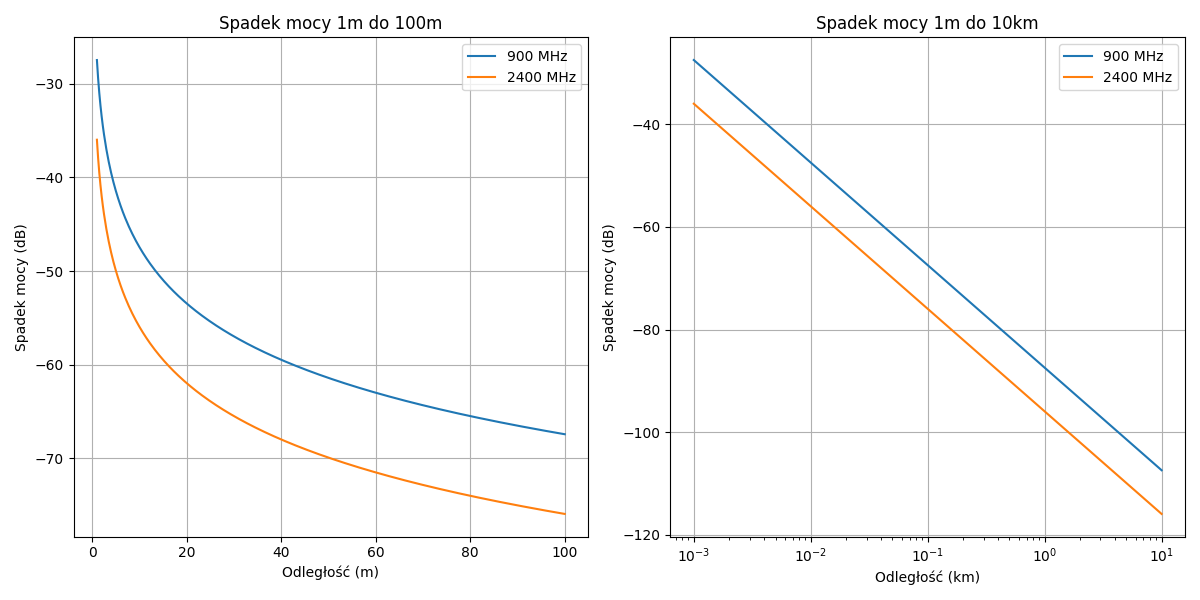
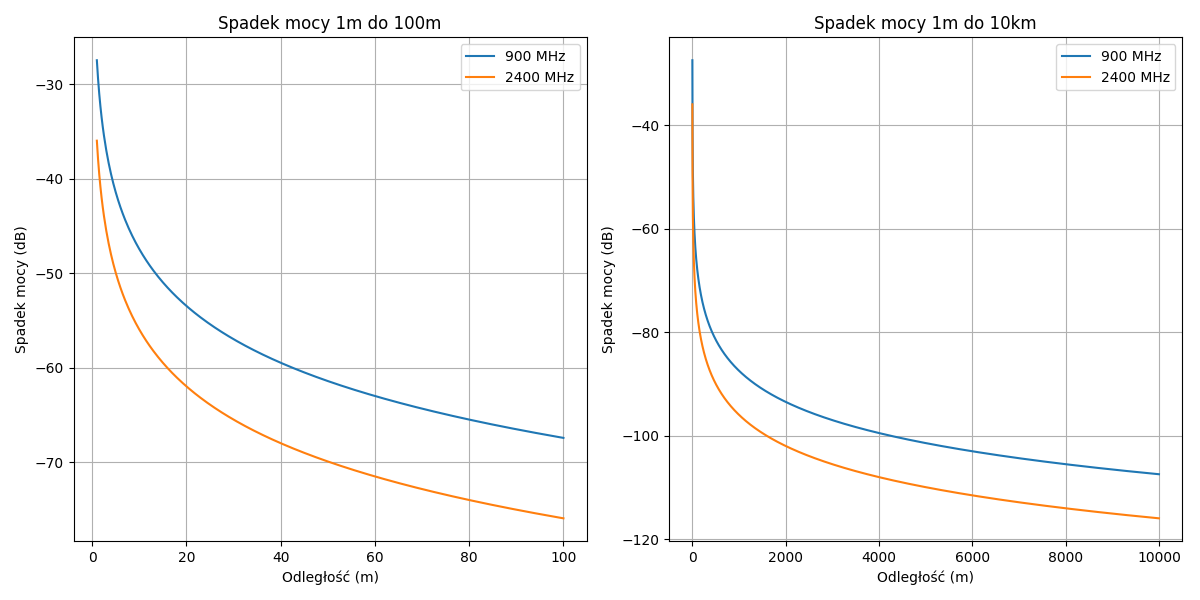
task 3, fix task 2 and 1

diff --git a/main.py b/main.py
@@ -15,7 +15,7 @@ lambda1 = c / f1
 lambda2 = c / f2
 
 distances_1 = np.arange(1, 100.25, 0.25)
-distances_2 = np.logspace(0, 4, num=1000)
+distances_2 = np.arange(1, 10001, 1)
 
 loss_1_a = loss(gt, gr, lambda1, distances_1)
 loss_2_a = loss(gt, gr, lambda2, distances_1)
@@ -34,11 +34,10 @@ plt.legend()
 plt.grid(True)
 
 plt.subplot(1, 2, 2)
-plt.plot(distances_2 / 1000, loss_1_b, label='900 MHz')
-plt.plot(distances_2 / 1000, loss_2_b, label='2400 MHz')
+plt.plot(distances_2, loss_1_b, label='900 MHz')
+plt.plot(distances_2, loss_2_b, label='2400 MHz')
 plt.title('Spadek mocy 1m do 10km')
-plt.xlabel('Odległość (km)')
-plt.xscale('log')
+plt.xlabel('Odległość (m)')
 plt.ylabel('Spadek mocy (dB)')
 plt.legend()
 plt.grid(True)
@@ -61,9 +60,78 @@ plt.subplot(1, 2, 2)
 plt.plot(distances_2, delay_b)
 plt.title('Opóźnienie sygnału 1m do 10km')
 plt.xlabel('Odległość (m)')
-plt.xscale('log')
 plt.ylabel('Opóźnienie (s)')
 plt.grid(True)
 plt.tight_layout()
 plt.savefig('zadanie2.png')
+plt.show()
+
+
+Gt = 1.6
+Gr = 1.6
+c = 3e8
+f1 = 900e6
+f2 = 2400e6
+lambda1 = c / f1
+lambda2 = c / f2
+h1 = 30
+h2 = 3
+
+
+def calculate_d1_d2(h1, h2, d):
+    d1 = np.sqrt((h1 - h2)**2 + d**2)
+    d2 = np.sqrt((h1 + h2)**2 + d**2)
+    return d1, d2
+
+
+def multipath_path_loss(Gt, Gr, lambda_, d1, d2, f):
+    phi1 = -2 * np.pi * f * d1 / c
+    phi2 = -2 * np.pi * f * d2 / c
+    return 10 * np.log10(Gt * Gr * (lambda_ / (4 * np.pi))**2 * (1/d1 * np.abs(np.exp(1j * phi1)) - 1/d2 * np.abs(np.exp(1j * phi2)))**2)
+
+
+distances_1 = np.arange(1, 100.25, 0.25)
+distances_2 = np.arange(1, 10001, 1)
+
+loss_1_a = []
+loss_2_a = []
+loss_1_b = []
+loss_2_b = []
+
+for d in distances_1:
+    d1, d2 = calculate_d1_d2(h1, h2, d)
+    loss_1_a.append(multipath_path_loss(Gt, Gr, lambda1, d1, d2, f1))
+    loss_2_a.append(multipath_path_loss(Gt, Gr, lambda2, d1, d2, f2))
+
+for d in distances_2:
+    d1, d2 = calculate_d1_d2(h1, h2, d)
+    loss_1_b.append(multipath_path_loss(Gt, Gr, lambda1, d1, d2, f1))
+    loss_2_b.append(multipath_path_loss(Gt, Gr, lambda2, d1, d2, f2))
+
+loss_1_a = np.array(loss_1_a)
+loss_2_a = np.array(loss_2_a)
+loss_1_b = np.array(loss_1_b)
+loss_2_b = np.array(loss_2_b)
+
+plt.figure(figsize=(12, 6))
+
+plt.subplot(1, 2, 1)
+plt.plot(distances_1, loss_1_a, label='900 MHz')
+plt.plot(distances_1, loss_2_a, label='2400 MHz')
+plt.title('Spadek mocy sygnału (1m do 100m)')
+plt.xlabel('Odległość (m)')
+plt.ylabel('Spadek mocy (dB)')
+plt.legend()
+plt.grid(True)
+
+plt.subplot(1, 2, 2)
+plt.plot(distances_2, loss_1_b, label='900 MHz')
+plt.plot(distances_2, loss_2_b, label='2400 MHz')
+plt.title('Spadek mocy sygnału (1m do 10km)')
+plt.xlabel('Odległość (km)')
+plt.ylabel('Spadek mocy (dB)')
+plt.legend()
+plt.grid(True)
+plt.savefig('zadanie3.png')
+plt.tight_layout()
 plt.show()
